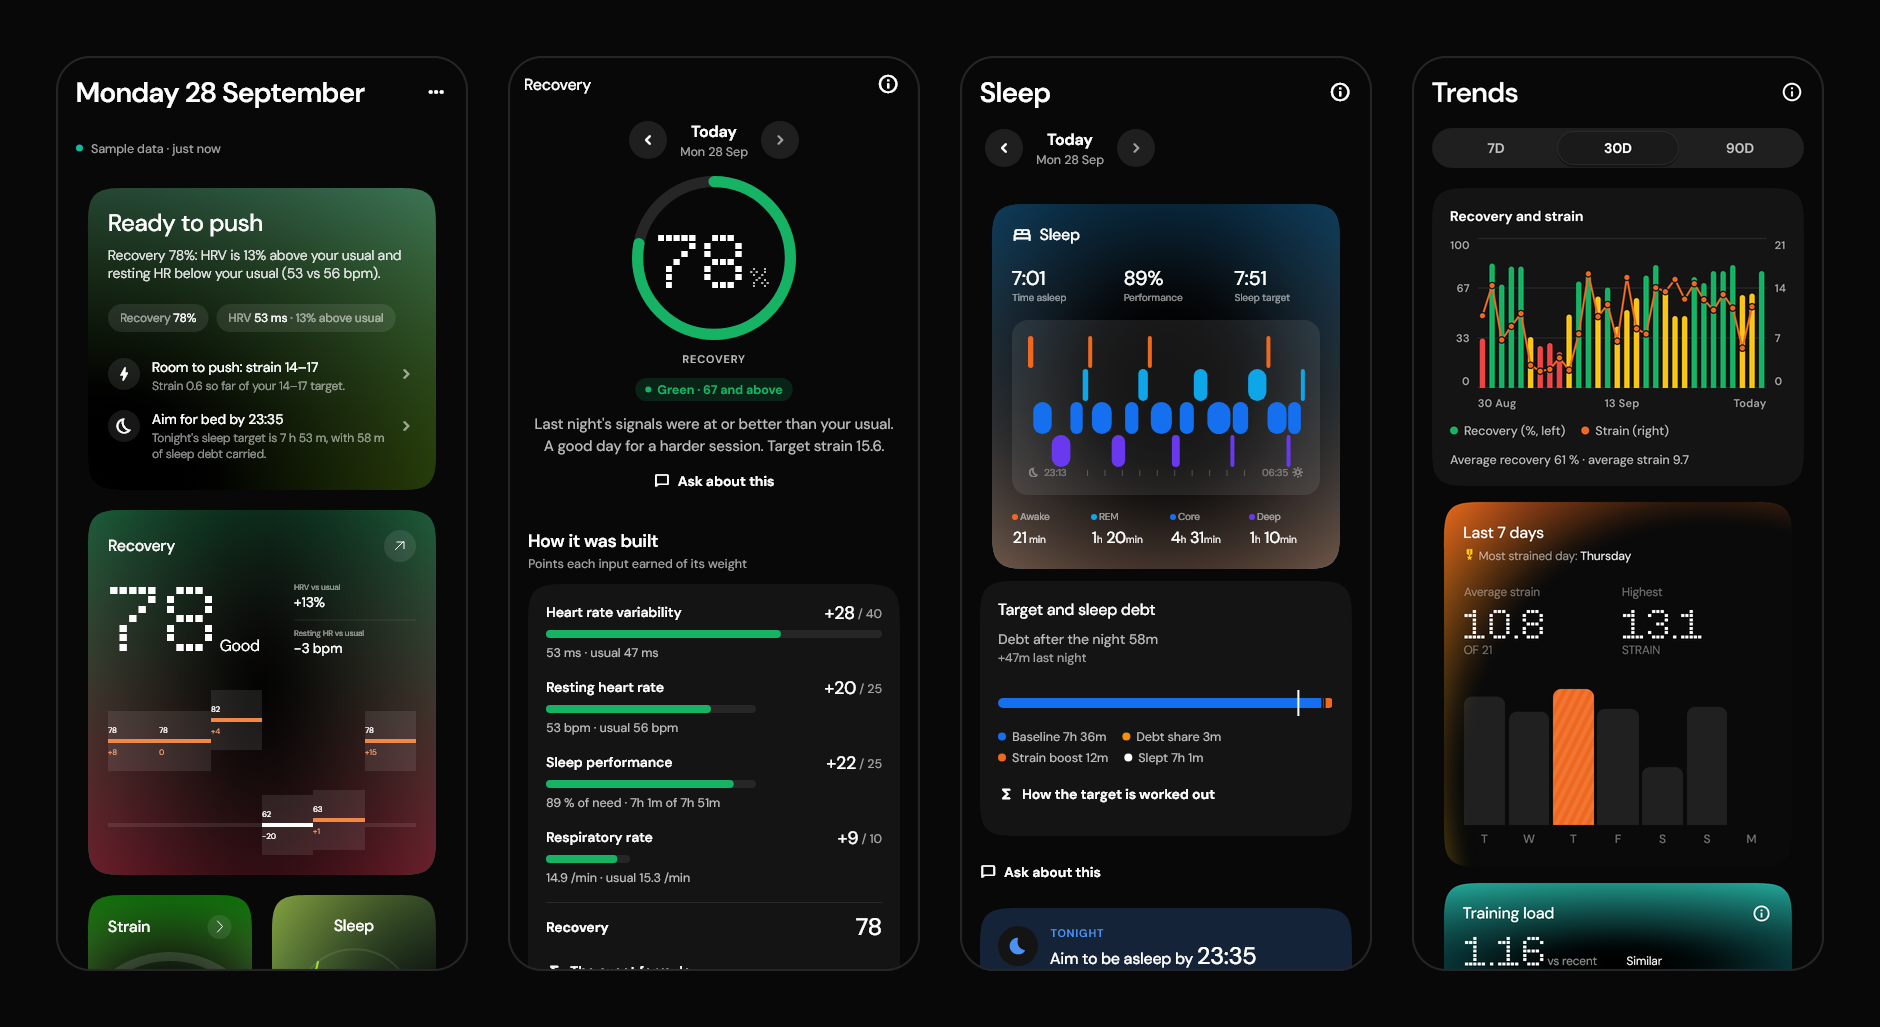
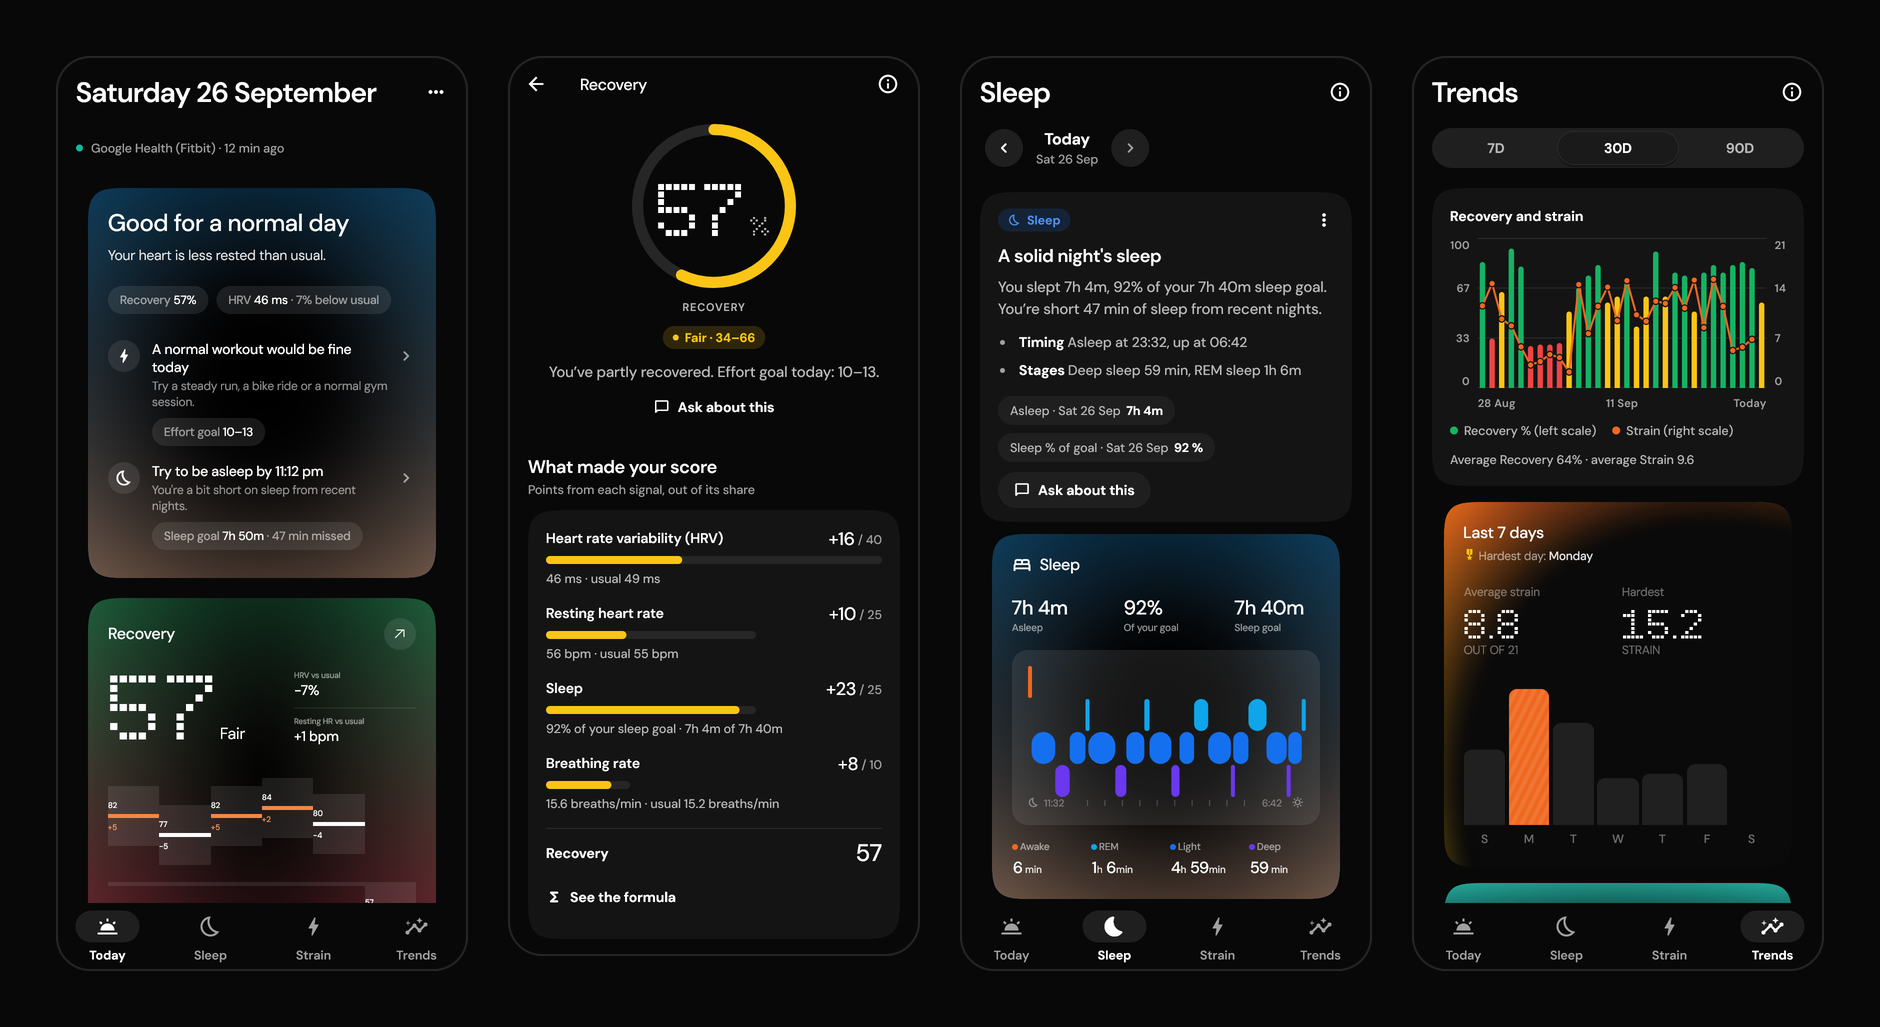
README: new screenshots from the redesigned app
Hero, scores and coach images are rendered from the real screens on one
day (Sat 26 Sep, Recovery 57) with connected data, so no screen carries a
demo label. build_images.py reads the local renders and says clearly when
they are missing. The sources image is dropped: onboarding and Settings
name the sample-data option, so no clean pair of screens was left.

diff --git a/docs/readme/build_images.py b/docs/readme/build_images.py
@@ -1,18 +1,27 @@
-"""Rebuild the README images from the app's golden renders.
+"""Rebuild the README images from renders of the real app screens.
 
 Run from anywhere:  python docs/readme/build_images.py
-Needs Pillow. Reads app/test/goldens/screens/*.png and writes hero, scores,
-coach and sources PNGs next to this script.
-Screens are scaled to 412 px wide (never cropped sideways) and cropped to one
-915 px viewport from the top. After a UI copy change, regenerate the goldens,
-then run this script.
+Needs Pillow. Reads app/test/readme/out/*.png and writes hero, scores and
+coach PNGs next to this script.
+
+The renders come from a local render harness that is not part of the public
+repo (app/test/readme/readme_screens_test.dart). It draws each screen at
+412x915 logical px, dark, with the demo dataset shown as connected data on
+one fixed day, so every screen reads the same Recovery. To refresh them:
+
+    cd app && flutter test test/readme/readme_screens_test.dart --update-goldens
+
+Screens are scaled to 412 px wide (never cropped sideways) and cropped from
+the top to one 915 px viewport, or less where a screen would end mid-line.
 """
 import os
+import sys
+
 from PIL import Image, ImageDraw, ImageFont
 
 ROOT = os.path.abspath(os.path.join(os.path.dirname(os.path.abspath(__file__)), "..", ".."))
 APP = os.path.join(ROOT, "app")
-SCREENS = os.path.join(APP, "test", "goldens", "screens")
+SCREENS = os.path.join(APP, "test", "readme", "out")
 OUT = os.path.dirname(os.path.abspath(__file__))
 
 BG = (8, 8, 8)
@@ -23,6 +32,34 @@ FONT_PATH = os.path.join(APP, "assets", "fonts", "DMSans", "DMSans-Variable.ttf"
 PHONE_W, PHONE_H = 412, 915
 GAP, PAD = 40, 56
 RADIUS = 34
+
+# Every render this script uses.
+NEEDED = [
+    "today.png", "recovery_ring.png", "sleep.png", "trends.png",
+    "strain.png", "journal.png", "live.png",
+    "coach_empty.png", "coach_answer.png",
+]
+
+# Screens that scroll on past the phone end in a gap between cards, never
+# mid-line.
+CUT = 900
+
+
+def check_renders():
+    """Stop with a clear message when the renders are not on this machine."""
+    rel = os.path.relpath(SCREENS, ROOT)
+    if not os.path.isdir(SCREENS):
+        sys.exit(
+            f"No screen renders found in {rel}/.\n"
+            "They come from a local render harness that is not in the public repo,\n"
+            "so a fresh clone cannot rebuild these images. The PNGs committed in\n"
+            "docs/readme/ are the current ones. With the harness in place, run:\n"
+            "  cd app && flutter test test/readme/readme_screens_test.dart --update-goldens"
+        )
+    missing = [n for n in NEEDED if not os.path.isfile(os.path.join(SCREENS, n))]
+    if missing:
+        sys.exit(f"Missing renders in {rel}/: {', '.join(missing)}.\n"
+                 "Re-run the render harness (see the top of this file).")
 
 
 def font(size, weight=500):
@@ -35,7 +72,7 @@ def font(size, weight=500):
 
 
 def load_phone(name, crop_h=PHONE_H):
-    """Load a golden screen, normalise to 412 px wide, crop to one viewport."""
+    """Load a render, normalise to 412 px wide, crop to one viewport."""
     im = Image.open(os.path.join(SCREENS, name)).convert("RGB")
     if im.width != PHONE_W:
         h = round(im.height * PHONE_W / im.width)
@@ -64,8 +101,9 @@ def rounded(im, radius, border=EDGE):
 
 def row(images, labels=None, gap=GAP, pad=PAD, radius=RADIUS):
     label_h = 44 if labels else 0
+    tallest = max(i.height for i in images)
     w = sum(i.width for i in images) + gap * (len(images) - 1) + pad * 2
-    h = max(i.height for i in images) + pad * 2 + label_h
+    h = tallest + pad * 2 + label_h
     canvas = Image.new("RGB", (w, h), BG)
     d = ImageDraw.Draw(canvas)
     f = font(22)
@@ -75,7 +113,8 @@ def row(images, labels=None, gap=GAP, pad=PAD, radius=RADIUS):
         if labels:
             t = labels[i]
             tw = d.textlength(t, font=f)
-            d.text((x + (im.width - tw) / 2, pad + im.height + 14), t, font=f, fill=LABEL)
+            # One baseline for the row, under the tallest phone.
+            d.text((x + (im.width - tw) / 2, pad + tallest + 14), t, font=f, fill=LABEL)
         x += im.width + gap
     return canvas
 
@@ -86,30 +125,22 @@ def save(im, name):
     print(name, im.size, os.path.getsize(path) // 1024, "KB")
 
 
-# 1. Hero: four screens that show the same sample day (Mon 28 Sep, Recovery 78).
-save(row([load_phone(n) for n in
-          ["today_dark.png", "recovery_dark.png", "sleep_dark.png", "trends_dark.png"]]),
+check_renders()
+
+# 1. Hero: one morning (Sat 26 Sep, Recovery 57) on four screens: Today,
+#    Recovery scrolled to its ring and breakdown, Sleep, Trends.
+save(row([load_phone("today.png"), load_phone("recovery_ring.png", CUT),
+          load_phone("sleep.png"), load_phone("trends.png")]),
      "hero.png")
 
-# 2. Scores and training: Strain, Journal, Live workout.
-save(row([load_phone(n) for n in
-          ["strain_dark.png", "journal_dark.png", "live_recording_dark.png"]],
-         labels=["Strain vs today's target", "Journal: associations, not causes",
+# 2. Scores and training, the same day: Strain, Journal, Live workout.
+save(row([load_phone("strain.png"), load_phone("journal.png", CUT),
+          load_phone("live.png")],
+         labels=["Strain against today's goal", "Journal: links, not causes",
                  "Live heart rate over Bluetooth"]),
      "scores.png")
 
-# 3. Coach: who answers, a verified answer, the facts-only fallback, the red-flag router.
-save(row([load_phone(n) for n in
-          ["coach_setup_cloud_dark.png", "coach_answer_dark.png",
-           "coach_fallback_dark.png", "coach_safety_dark.png"]],
-         labels=["On-device by default, BYO key", "Every number cited and checked",
-                 "Can't be checked, so facts only", "Red flags never reach a model"]),
+# 3. Coach: the empty chat and the answer to "Why is my Recovery lower today?".
+save(row([load_phone("coach_empty.png"), load_phone("coach_answer.png")],
+         labels=["Works on the phone, no setup", "Answers from your own numbers"]),
      "coach.png")
-
-# 4. Data sources: what it is and isn't, how to start, one source per metric.
-# Cropped to 676 px so the strip ends above the Enhanced-mode sign-in notice.
-save(row([load_phone(n, crop_h=676) for n in
-          ["onboarding_what_dark.png", "onboarding_choose_dark.png", "sources_connected_dark.png"]],
-         labels=["What it is, and what it isn't", "Real data or labelled sample data",
-                 "One source per metric, never averaged"]),
-     "sources.png")

diff --git a/README.md b/README.md
@@ -6,7 +6,7 @@ Airlog is an Android app built in Flutter. It reads raw measurements from any we
 
 Built end to end. Next milestone: field validation on the Fitbit Air.
 
-![Airlog's Today, Recovery, Sleep and Trends screens for the same sample day: a plan headed "Ready to push", Recovery 78, 7 h 1 m of sleep against a 7 h 51 m target, and 30 days of recovery and strain](docs/readme/hero.png)
+![Airlog on one morning, Saturday 26 September: Today with a plan headed "Good for a normal day", Recovery 57 % and HRV 46 ms, 7 % below usual; Recovery 57, Fair, with the points HRV, resting heart rate, sleep and breathing rate each earned; Sleep with 7 h 4 m asleep against a 7 h 40 m goal and the night's stages; Trends with 30 days of recovery and strain](docs/readme/hero.png)
 
 **[Download the Android app (APK)](https://github.com/A2K2005/airlog/releases/latest)** · Android 8.0 or newer
 
@@ -77,19 +77,13 @@ For example, I asked for the UI to be a 1:1 copy of my Figma widget pack. Princi
 
 ## The product
 
-**Today, Recovery, Sleep and Trends** are in the hero above. Every score opens to its breakdown: the inputs, the points each one earned and your baseline.
+**Strain, Journal and Live.** Every score opens to its breakdown: the inputs, the points each one earned and your baseline. The Journal links evening habits to next-day Recovery, and a live workout reads heart rate straight from the band over Bluetooth.
 
-![Strain against today's target with heart-rate zones; the Journal with evening tags and an association between alcohol and next-day recovery; live heart rate over Bluetooth with zones and session strain](docs/readme/scores.png)
+![The same Saturday: Strain 13.8 against a goal of 11.4, most of it from a 1 h 32 m ride, with 828 kcal and 20 active minutes; the Journal with 3 of 7 evenings logged, the evening tags, and alcohol linked to 25 points lower Recovery the next day; a live workout from a Fitbit Air at 164 bpm in zone 4, 12:34 in, strain 4.0, average 157 bpm](docs/readme/scores.png)
 
 **Coach.** Opens straight to the chat: on-device answers work with no setup, and your own Claude or Gemini key makes them fuller. Every number is checked against your data before you see it, and the answer's ⋯ menu shows where each one came from. An answer that can't be checked becomes a plain facts table, and emergencies never reach a model.
 
-![Coach setup with on-device as the default; a verified answer with three cited numbers; a facts-only fallback when the answer couldn't be verified; a chest-pain question routed to fixed safety copy](docs/readme/coach.png)
-
-<sub>Each render uses its own fixed sample day, so the coach shows Recovery 64 while the hero shows 78.</sub>
-
-**Sources.** Onboarding says what the app is and isn't, then offers real data through Health Connect or clearly labelled sample data.
-
-![Onboarding "What it is / What it isn't"; the choice between Health Connect and sample data; the Sources screen explaining one source per metric](docs/readme/sources.png)
+![The coach's empty chat with four suggested questions; the on-device answer to "Why is my Recovery lower today?": Recovery 57 % in the yellow zone, HRV 46 ms against a usual 49 ms, resting heart rate 56 bpm against 55 bpm and 92 % of the sleep goal, with Recovery and HRV cards and today's plan](docs/readme/coach.png)
 
 **Home-screen widgets.** The day at a glance without opening the app: Recovery, Strain and Sleep side by side, today's plan with its one next step, and Recovery on a ring. They refresh after every sync.
 
